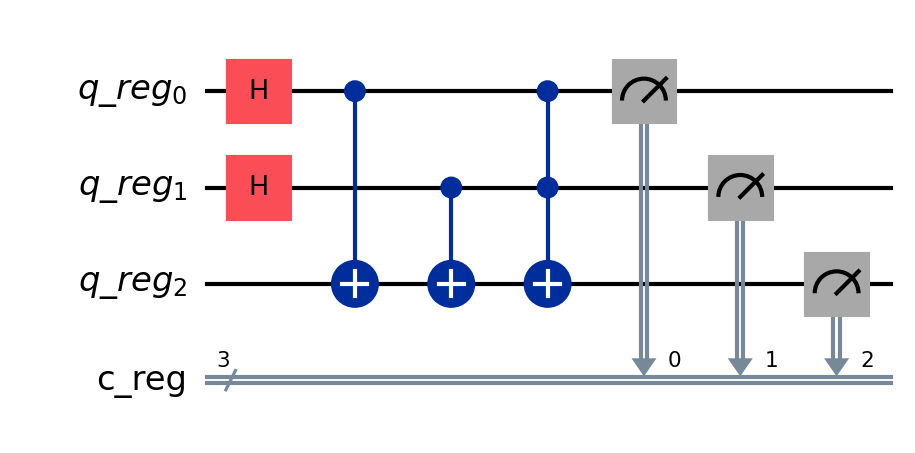
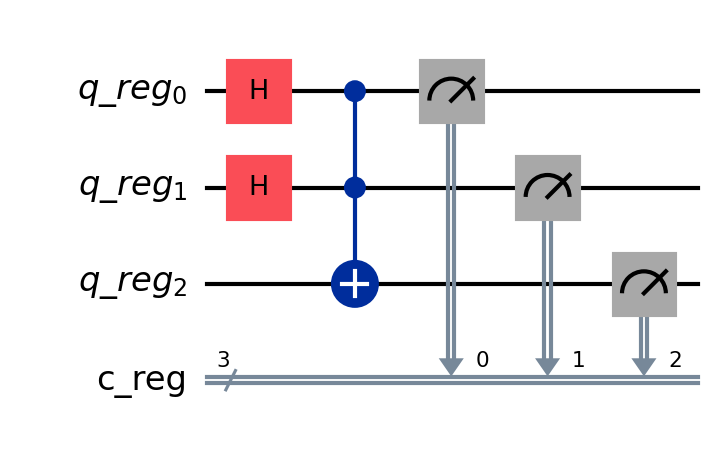
Created and condition

diff --git a/algorithms/and/main.py b/algorithms/and/main.py
@@ -12,7 +12,7 @@ import qiskit_aer as qk_aer
 '''
 Created by Hlib Arseniuk (Glebegor) 2024.
 Application for Quantum Computing.
-OR.
+And.
 Qubits: 3
 '''
 
@@ -89,11 +89,9 @@ def algorithm(qb_count: int) -> qk.QuantumCircuit:
     circuit.h(regQuantum[0])
     circuit.h(regQuantum[1])
 
-    circuit.cx(0, 2)
-    circuit.cx(1, 2)
     circuit.ccx(0, 1, 2)
 
-    circuit.measure()
+    circuit.measure(regQuantum, regClassic)
 
     return circuit
 def main() -> None:

diff --git a/algorithms/and/README.md b/algorithms/and/README.md
@@ -1,6 +1,6 @@
-# Or condition
+# And condition
 ## Description
-This is example of condition or in quantum computing.
+This is example of condition and in quantum computing.
 ![Circuit diagram](./circuit.png)
 ## Env
 
